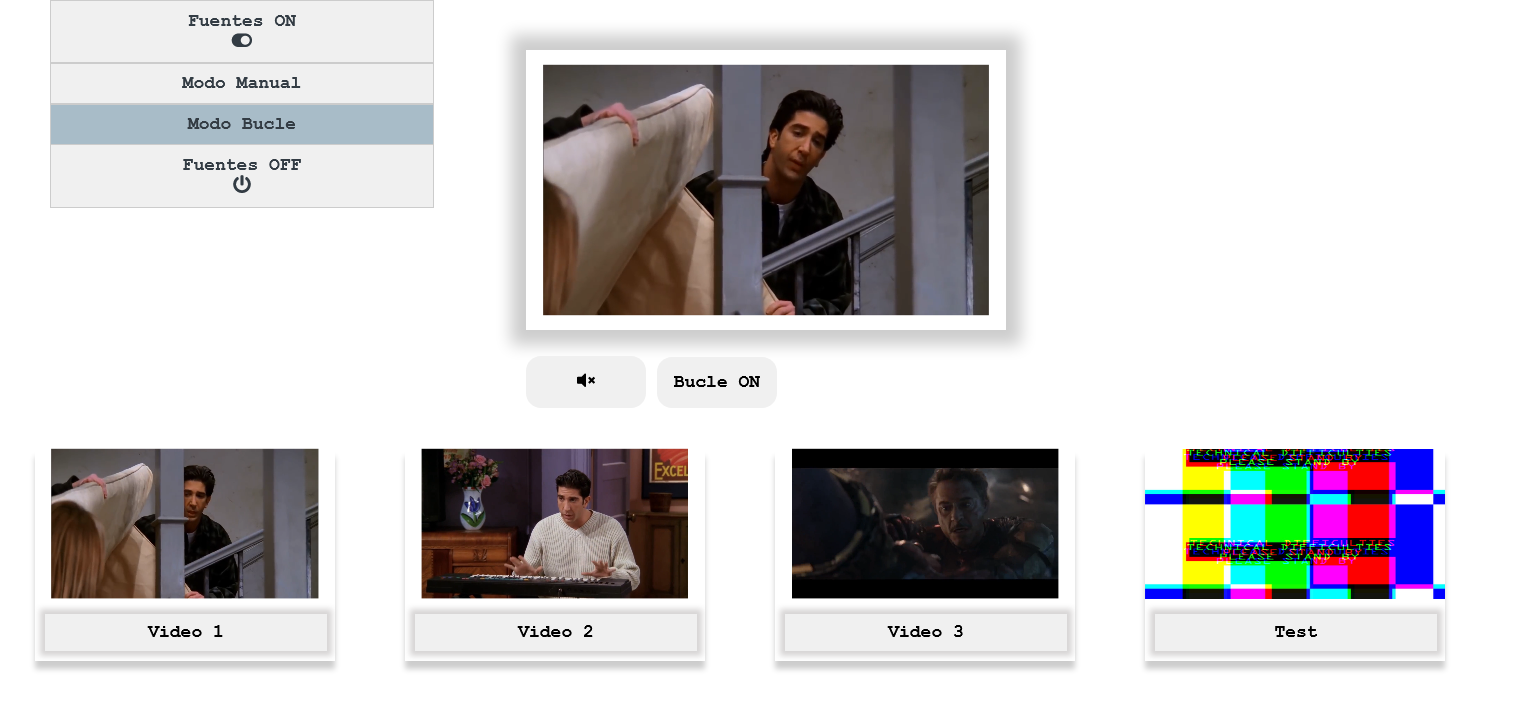
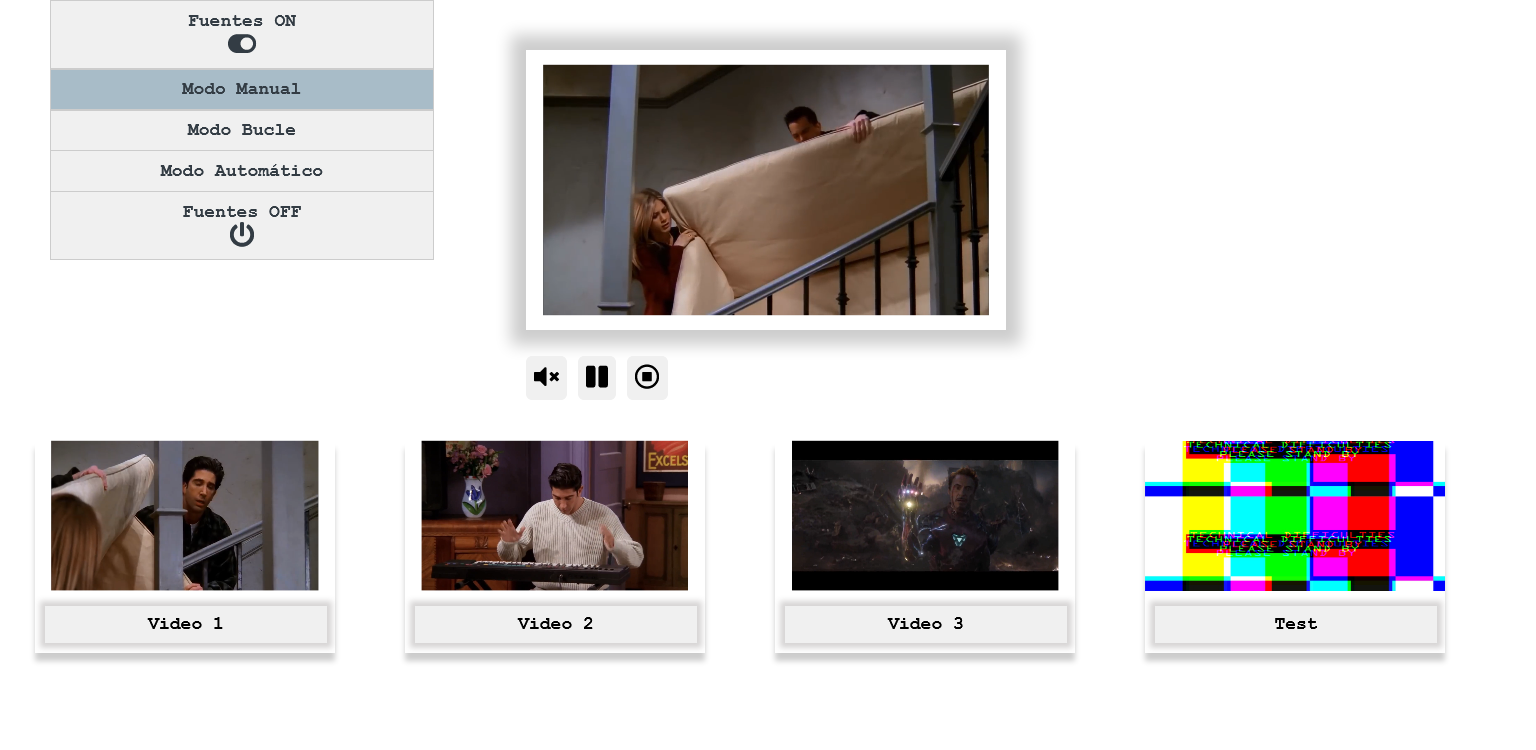
Modo auto

diff --git a/P5/js/script.js b/P5/js/script.js
@@ -12,6 +12,7 @@ const img_test = document.getElementById("img_test");
 const btn_video4 = document.getElementById("btn_video4");
 const modo_manual = document.getElementById("btn_src_manual");
 const modo_bucle = document.getElementById("btn_src_bucle");
+const modo_auto = document.getElementById('btn_src_auto');
 const btn_off= document.getElementById('btn_src_off');
 const vol_on= document.getElementById('vol_on');
 const vol_off= document.getElementById('vol_off');
@@ -21,11 +22,15 @@ const btn_pause = document.getElementById('pause');
 const btn_play = document.getElementById('play');
 const btn_stop = document.getElementById('stop');
 
-let loop; //bucle
+let loop_video; //bucle
+let loop_auto; //auto
+let auto_play;
+
 // modos
 const MODO={
   manual: false,
   bucle:false,
+  auto:false
 }
 
 // videos
@@ -37,6 +42,7 @@ const PLAYING={
 //estilos (ocultar / mostrar elementos)
 modo_manual.style.display='none';
 modo_bucle.style.display='none';
+modo_auto.style.display='none';
 btn_test.style.display='none';
 btn_video1.style.display='none';
 btn_video2.style.display='none';
@@ -79,15 +85,15 @@ btn_src_on.onclick = () => {
   //estilos
   modo_manual.style.display='';
   modo_bucle.style.display='';
+  modo_auto.style.display='';
   btn_test.style.display='';
   btn_video1.style.display='';
   btn_video2.style.display='';
   btn_video3.style.display='';
+  btn_src_on.disabled=true;
   btn_video1.disabled = true;
   btn_video2.disabled = true;
   btn_video3.disabled = true;
-  btn_src_on.disabled=true;
-
   //-- Establecer la fuente de las cámaras
   video1.src="https://github.com/nirtika/VIDEOS_2020-2021-CSAAI-Practicas/raw/main/video1.mp4";
   video2.src="https://github.com/nirtika/VIDEOS_2020-2021-CSAAI-Practicas/raw/main/video2.mp4";
@@ -129,6 +135,7 @@ for (let i = 0; i < btns.length; i++) {
 btn_src_off.onclick = () => {
   modo_manual.style.display='none';
   modo_bucle.style.display='none';
+  modo_auto.style.display='none';
   btn_test.style.display='none';
   btn_video1.style.display='none';
   btn_video2.style.display='none';
@@ -168,11 +175,18 @@ btn_video1.onclick = () => {
     directo.play();
     directo.poster='';
     vol_off.style.display='';
+    btn_pause.style.display='';  
+    btn_stop.style.display='';
+    //check_modo();
     if(MODO.bucle){
       bucle_off.style.display='';
     }
-    btn_pause.style.display='';  
-    btn_stop.style.display='';
+    if (MODO.auto) {
+      btn_pause.style.display='none';  
+      btn_stop.style.display='none';
+      bucle_off.style.display='none';
+      bucle_on.style.display='none';
+    }
 };
   //-- Botón de Selección de la cámara 2
 btn_video2.onclick = () => {
@@ -185,10 +199,17 @@ btn_video2.onclick = () => {
   directo.poster='';
   vol_off.style.display='';
   btn_pause.style.display='';  
+  btn_stop.style.display='';
+ // check_modo(); 
   if(MODO.bucle){
     bucle_off.style.display='';
   }
-  btn_stop.style.display='';
+  if (MODO.auto) {
+    btn_pause.style.display='none';  
+    btn_stop.style.display='none';
+    bucle_off.style.display='none';
+    bucle_on.style.display='none';
+  }
 };
 //-- Botón de Selección de la cámara 3
 btn_video3.onclick = () => {
@@ -202,17 +223,27 @@ btn_video3.onclick = () => {
   vol_off.style.display='';
   btn_pause.style.display='';  
   btn_stop.style.display='';
+  check_modo();
   if(MODO.bucle){
     bucle_off.style.display='';
+  }
+  if (MODO.auto) {
+    btn_pause.style.display='none';  
+    btn_stop.style.display='none';
+    bucle_off.style.display='none';
+    bucle_on.style.display='none';
   }
 };
 
 // Modo manual
 modo_manual.onclick = () => {
+  window.clearInterval(loop_video);
+  window.clearInterval(loop_auto);
+  window.clearTimeout(auto_play);
   MODO.manual = true;
   MODO.bucle = false;
-  check_modo();
-  window.clearInterval(loop);
+  MODO.auto = false;
+  check_modo();  
   bucle_on.style.display='none';
   bucle_off.style.display='none';
 };
@@ -221,19 +252,39 @@ modo_manual.onclick = () => {
 modo_bucle.onclick =() =>{
   MODO.bucle = true;
   MODO.manual = false;
+  MODO.auto = false;
   check_modo();
   video1.play();
   video2.play();
   video3.play();
+  window.clearTimeout(auto_play);
+  window.clearInterval(loop_auto);
   inicio = directo.currentTime;
-  loop = setInterval(bucle, 2000);
+  loop_video = setInterval( function bucle() {
+                        directo.currentTime = inicio;
+          }, 2000);
   bucle_off.style.display='';
   
 }
 
-function bucle() {
-  directo.currentTime = inicio;
+//modo auto
+modo_auto.onclick=()=>{
+  MODO.bucle = false;
+  MODO.manual = false;
+  MODO.auto = true;
+  check_modo();
+  window.clearInterval(loop_video);
+  btn_video1.onclick();
+  auto_play= setTimeout(btn_video2.onclick, 3000);
+  auto_play= setTimeout(btn_video3.onclick, 6000);
+  loop_auto= setInterval(change_video, 9000);  
 }
+function change_video() {
+  btn_video1.onclick();
+  setTimeout(btn_video2.onclick, 3000);
+  setTimeout(btn_video3.onclick, 6000);
+}
+
 //habilitar boton para selecionar video
 function check_modo(){
   if(MODO.manual || MODO.bucle){
@@ -241,6 +292,12 @@ function check_modo(){
     btn_video1.disabled = false;
     btn_video2.disabled = false;
     btn_video3.disabled = false;
+    btn_test.disabled= false;
+  }else{
+    btn_video1.disabled = true;
+    btn_video2.disabled = true;
+    btn_video3.disabled = true;
+    btn_test.disabled= true;
   }
 }
 
@@ -260,13 +317,13 @@ vol_on.onclick =()=>{
 // bucle on y off
 bucle_off.onclick =()=>{
   MODO.bucle= false;
-  window.clearInterval(loop);
+  window.clearInterval(loop_video);
   bucle_on.style.display='';
   bucle_off.style.display='none';
 }
 bucle_on.onclick =()=>{
   inicio = directo.currentTime;
-  loop = setInterval(bucle, 2000);
+  loop_video = setInterval(bucle, 2000);
   bucle_off.style.display='';
   bucle_on.style.display='none';
 }
@@ -338,5 +395,3 @@ btn_stop.onclick =()=>{
   }
 
 }
-
-

diff --git a/P5/index.html b/P5/index.html
@@ -14,9 +14,10 @@
     <div>
         <div id ="opciones" class="centrar">
             <button id="btn_src_on">Fuentes ON <br><i class="fas fa-toggle-on"></i></button>
-            <button  id="btn_src_manual" class="btn_modo">Modo Manual</button>
-            <button  id="btn_src_bucle"  class="btn_modo">Modo Bucle</button>
-            <button  id="btn_src_off">Fuentes OFF <br><i class="fas fa-power-off"></i></button>
+            <button id="btn_src_manual" class="btn_modo">Modo Manual</button>
+            <button id="btn_src_bucle"  class="btn_modo">Modo Bucle</button>
+            <button id="btn_src_auto" class="btn_modo">Modo Automático</button>
+            <button id="btn_src_off">Fuentes OFF <br><i class="fas fa-power-off"></i></button>
         </div>
         
         <div class="video_directo">

diff --git a/P5/css/style.css b/P5/css/style.css
@@ -51,7 +51,7 @@ button:hover {background-color: #ddd;}
     width: 94%;
     margin: 10px 10px 10px 10px;
 }
-input[type=button]:active{
+input[type=button]:active ,button:active{
     box-shadow: 0 3px #82888b;
     transform: translateX(5px);
 }
